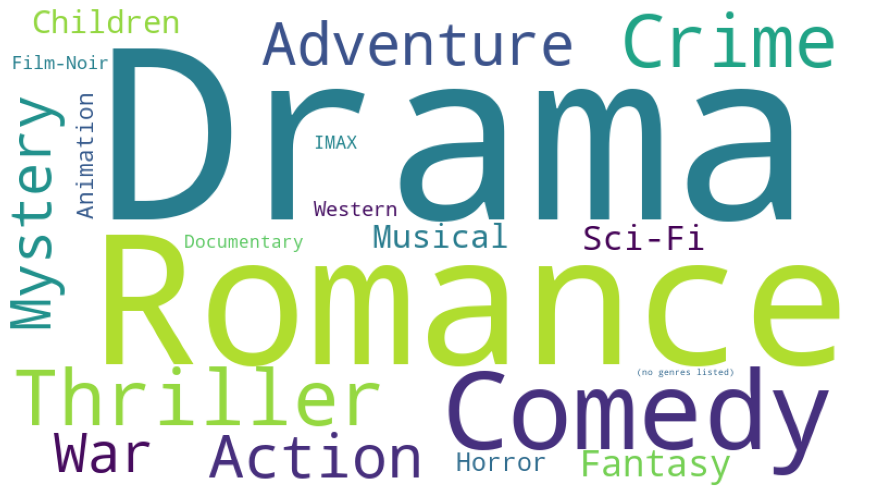
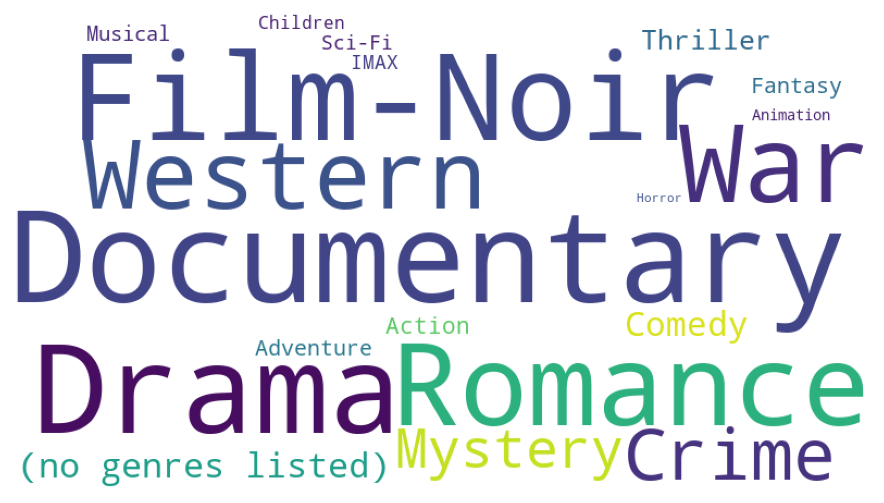
recompute wordclouds

diff --git a/_posts/2021-03-14-floc-experiment.md b/_posts/2021-03-14-floc-experiment.md
@@ -16,7 +16,7 @@ The code is available here [https://github.com/millengustavo/floc-experiment](ht
 
 Third-party cookies have (since 1994) been a key enabler of the commercial Internet and **fine-grained digital ad targeting**
 
-They helped achieve **unprecedented audience segmentation and attribution** - helping to connect marketing tactics with results in ways that were virtually impossible in the most traditional forms of media.
+They have helped achieve **unprecedented audience segmentation and attribution** - helping to connect marketing tactics with results in ways that were virtually impossible in the most traditional forms of media.
 
 To bring users more transparency and better consent management, most browsers are ending support for third-party cookies.
 
@@ -121,12 +121,13 @@ transformed_df['hash'] = transformed_df.apply(simhash, axis=1)
 ```python
 transformed_df["cluster"] = pd.cut(transformed_df["hash"], bins=5, labels=["1", "2", "3", "4", "5"])
 results = transformed_df.drop(columns='hash').groupby('cluster').mean()
+weighted_results = results / results.mean()
 ```
 
 ## Visualizing the clusters
 ```python
 def plot_cluster_wordcloud(cluster_name):
-    cluster_text = results.loc[results.index == str(cluster_name)].to_dict(orient='records')[0]
+    cluster_text = weighted_results.loc[weighted_results.index == str(cluster_name)].to_dict(orient='records')[0]
     wordcloud = WordCloud(width=800, height=450, background_color="white").generate_from_frequencies(cluster_text)
     plt.figure(figsize=(16,9))
     plt.imshow(wordcloud)
